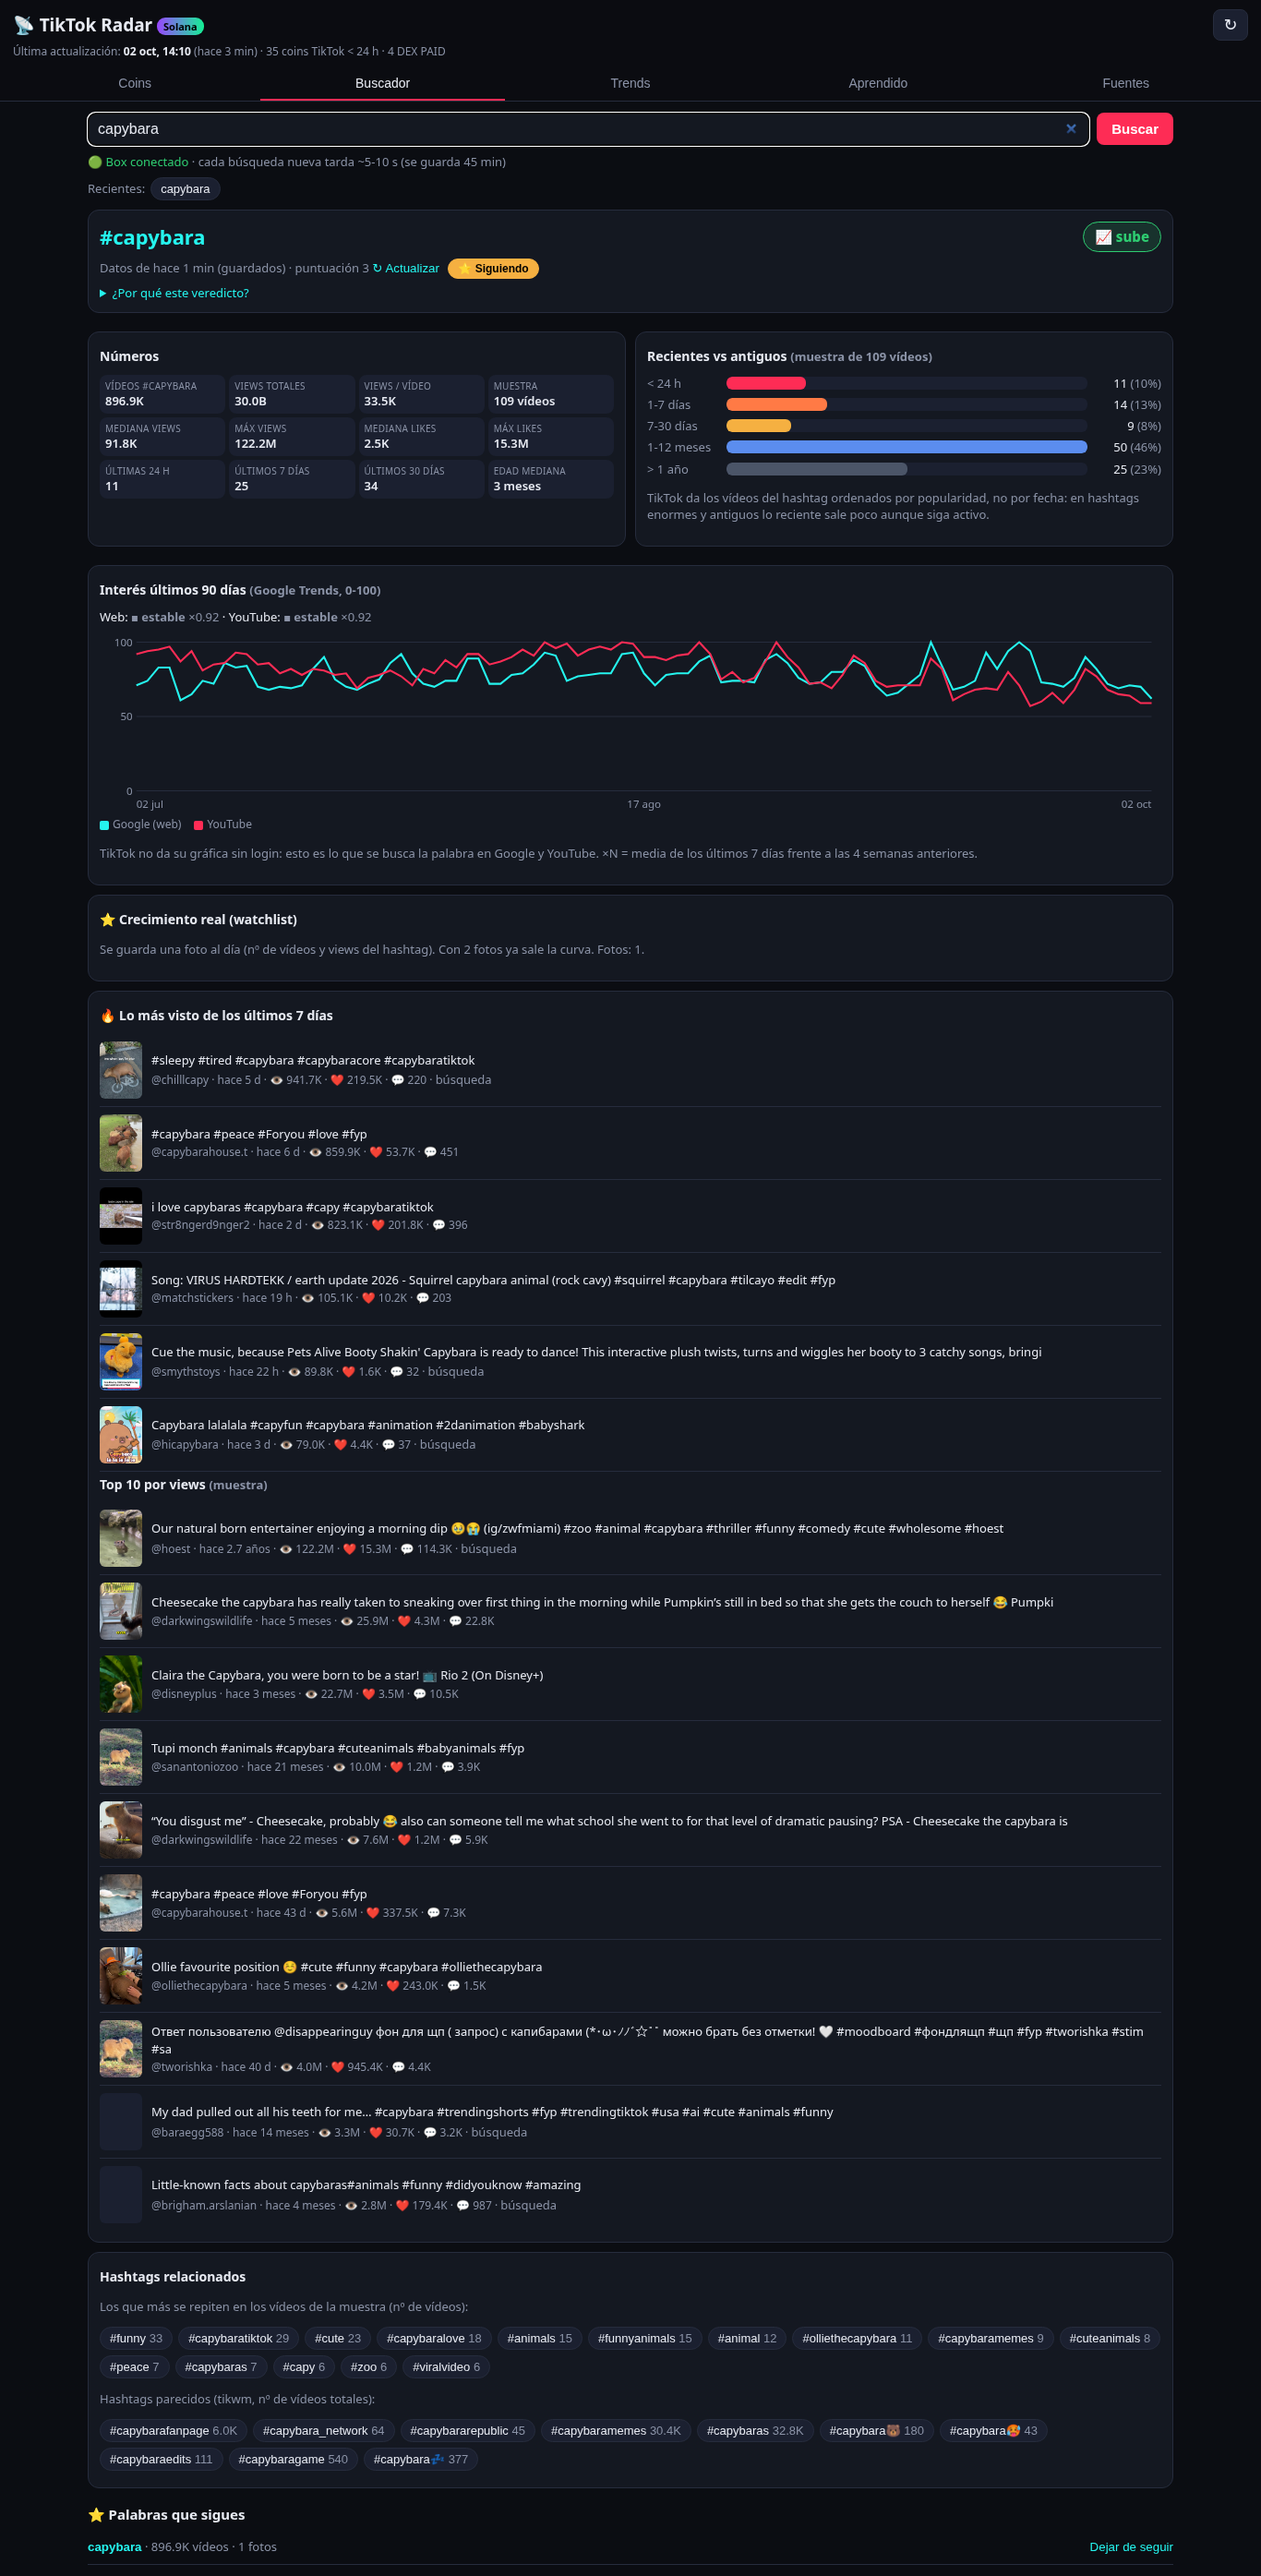
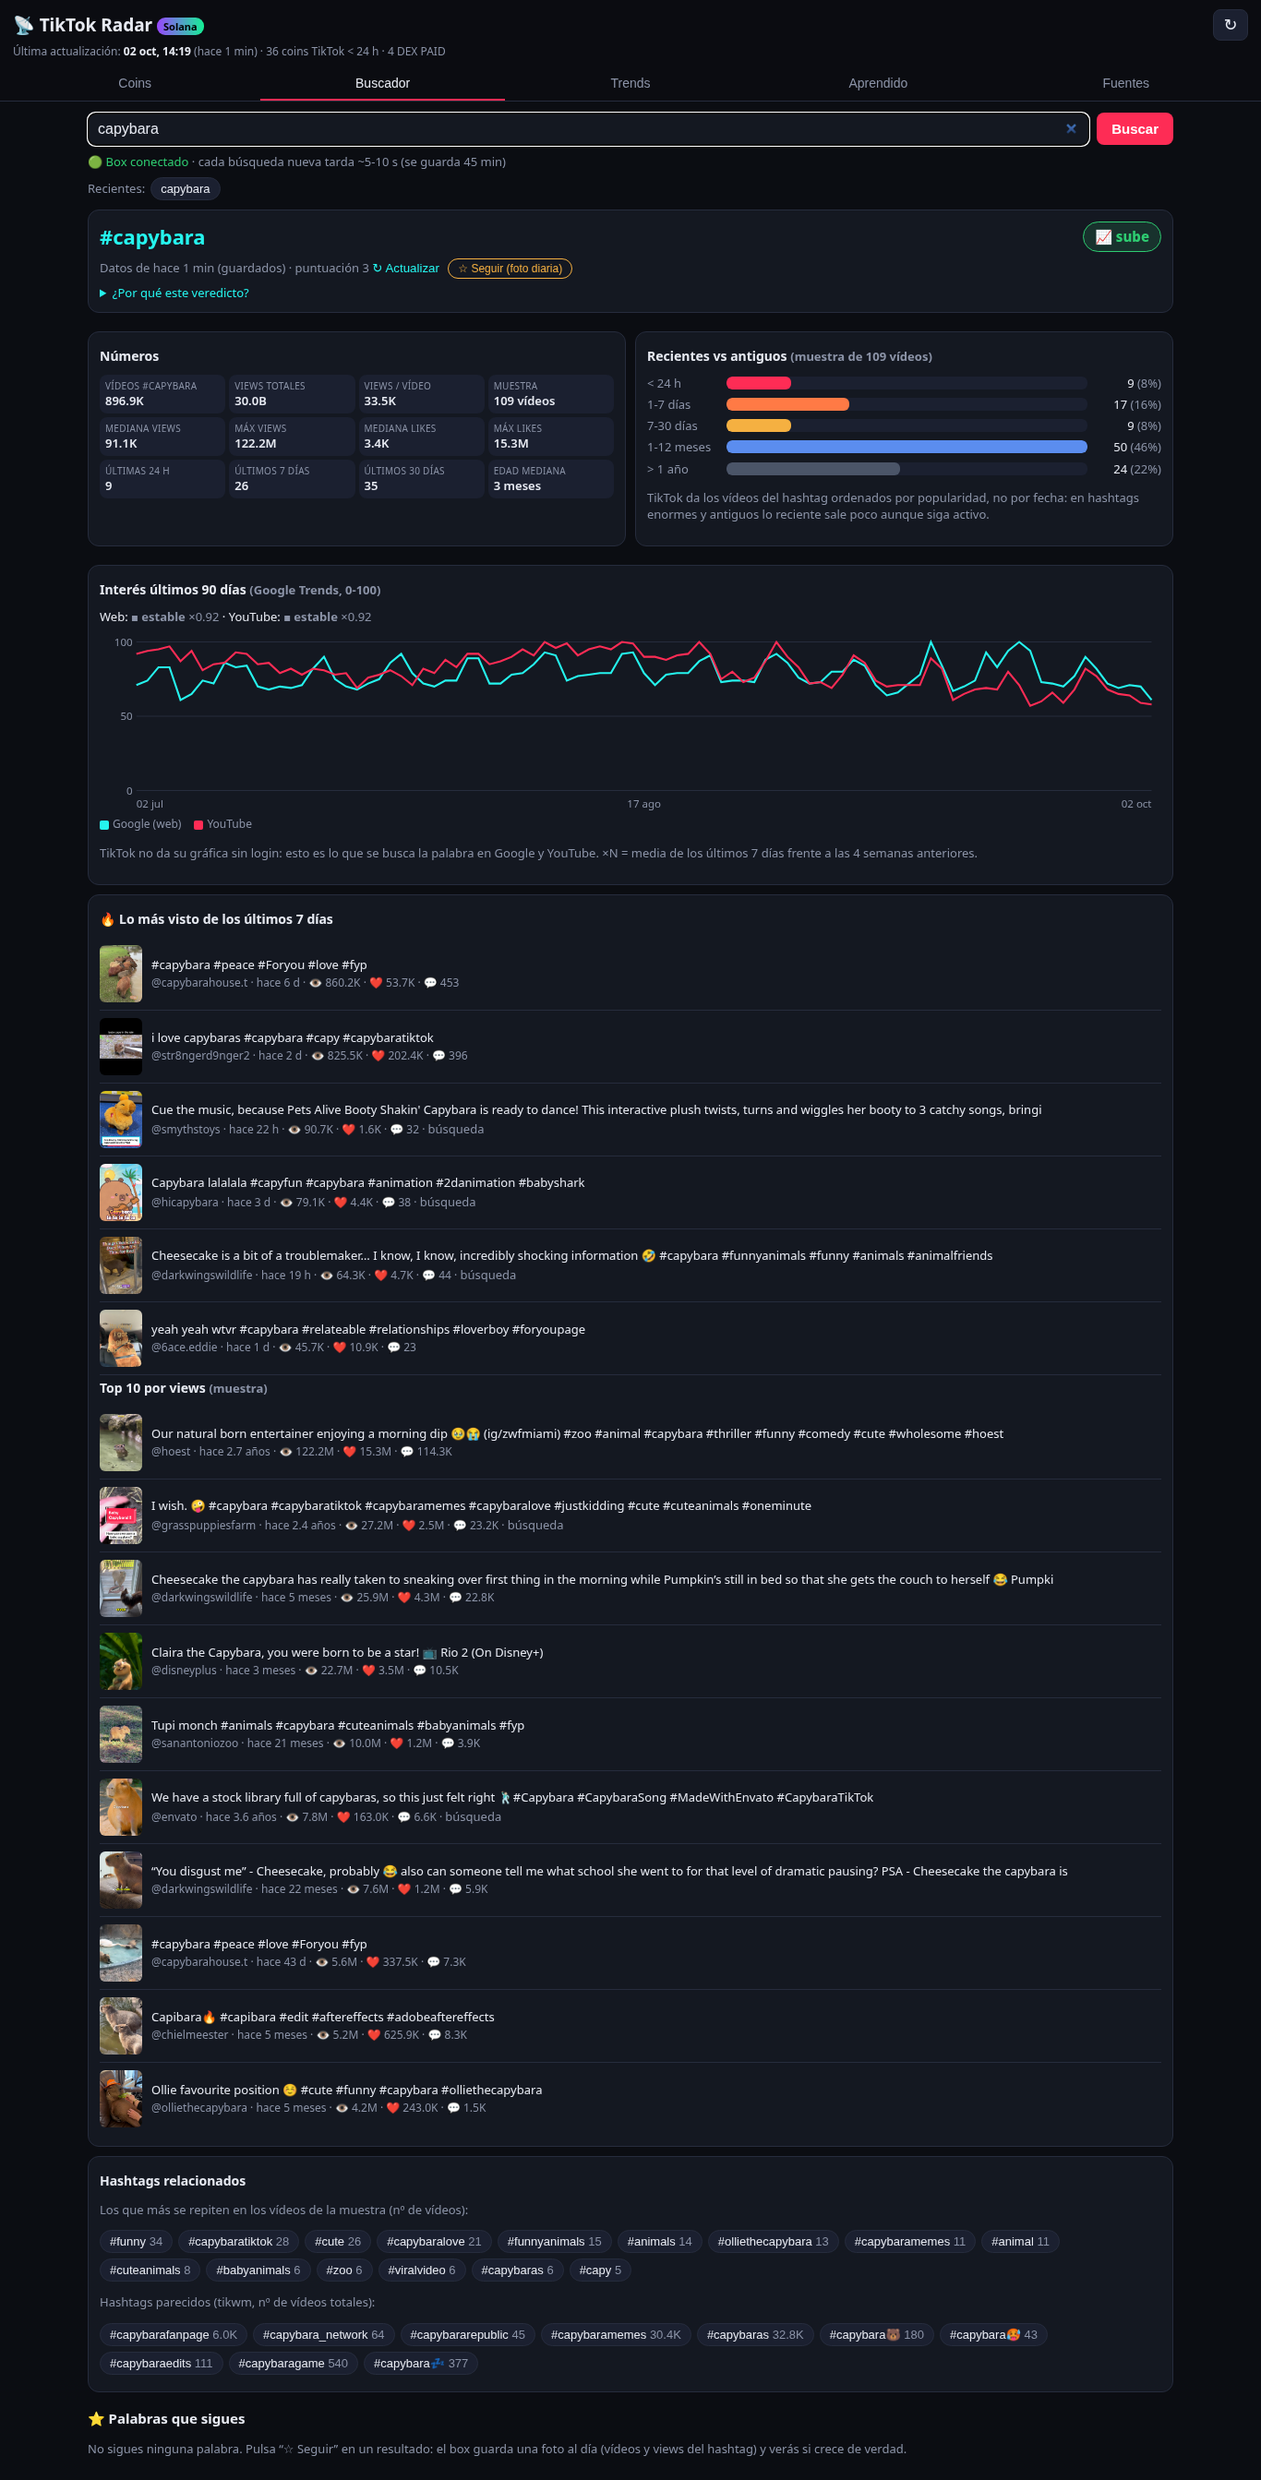
Buscador: aviso de configuración solo una vez; capturas (local vía túnel y producción sin PIN)

diff --git a/web/buscador.js b/web/buscador.js
@@ -152,8 +152,9 @@
     const r = await api({ action: "search", q, fresh: !!fresh });
     busy = false; $("#sbtn").disabled = false;
     if (r.error) {
-      $("#sresult").innerHTML = `<p class="warnbox">⚠ ${esc(errText(r.error))}</p>`;
-      if (["box_offline", "not_configured", "noapi"].includes(r.error)) checkStatus();
+      const st = ["box_offline", "not_configured", "noapi"].includes(r.error);
+      $("#sresult").innerHTML = st ? "" : `<p class="warnbox">⚠ ${esc(errText(r.error))}</p>`;
+      if (st) { $("#sstatus").innerHTML = `<span class="warnbox inline">⚠ ${esc(errText(r.error))}</span>`; checkStatus(); }
       return;
     }
     recent(q); render(r);
